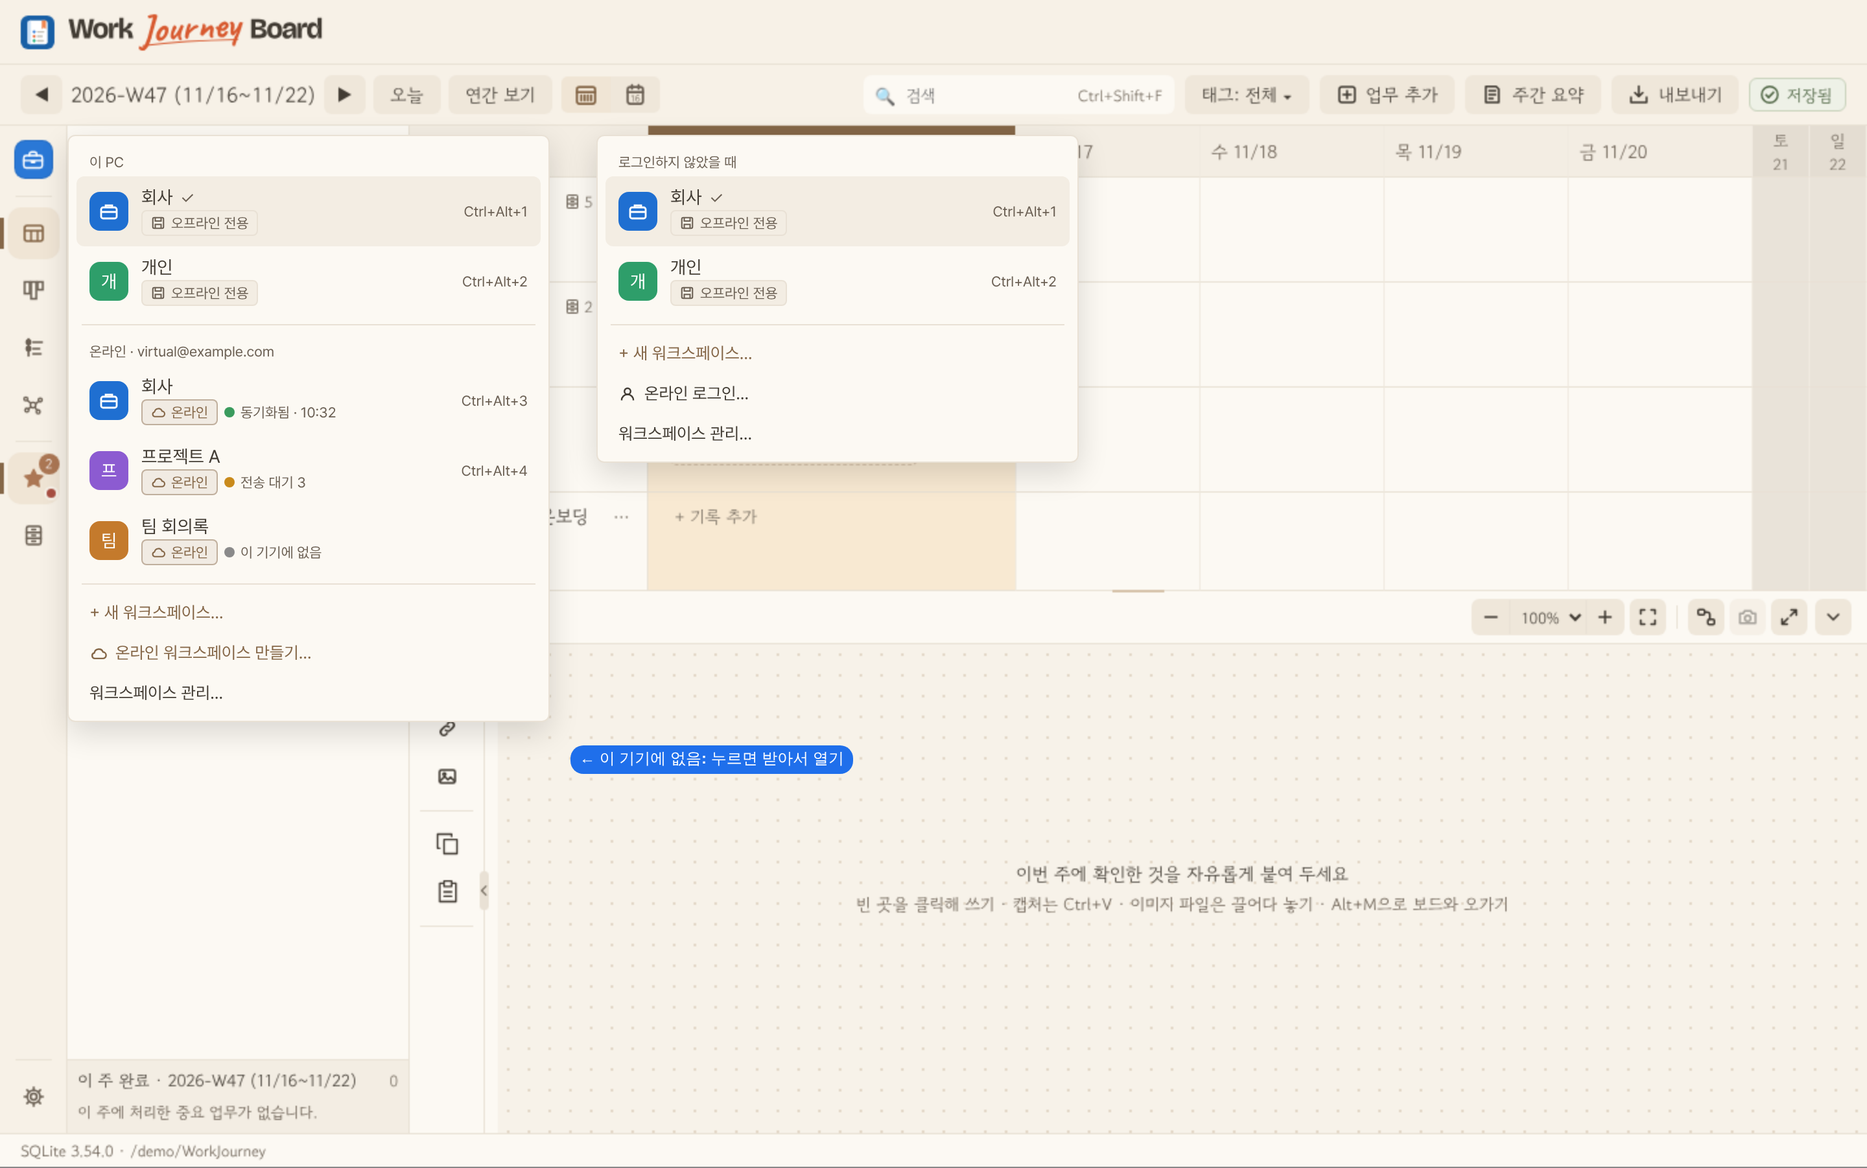
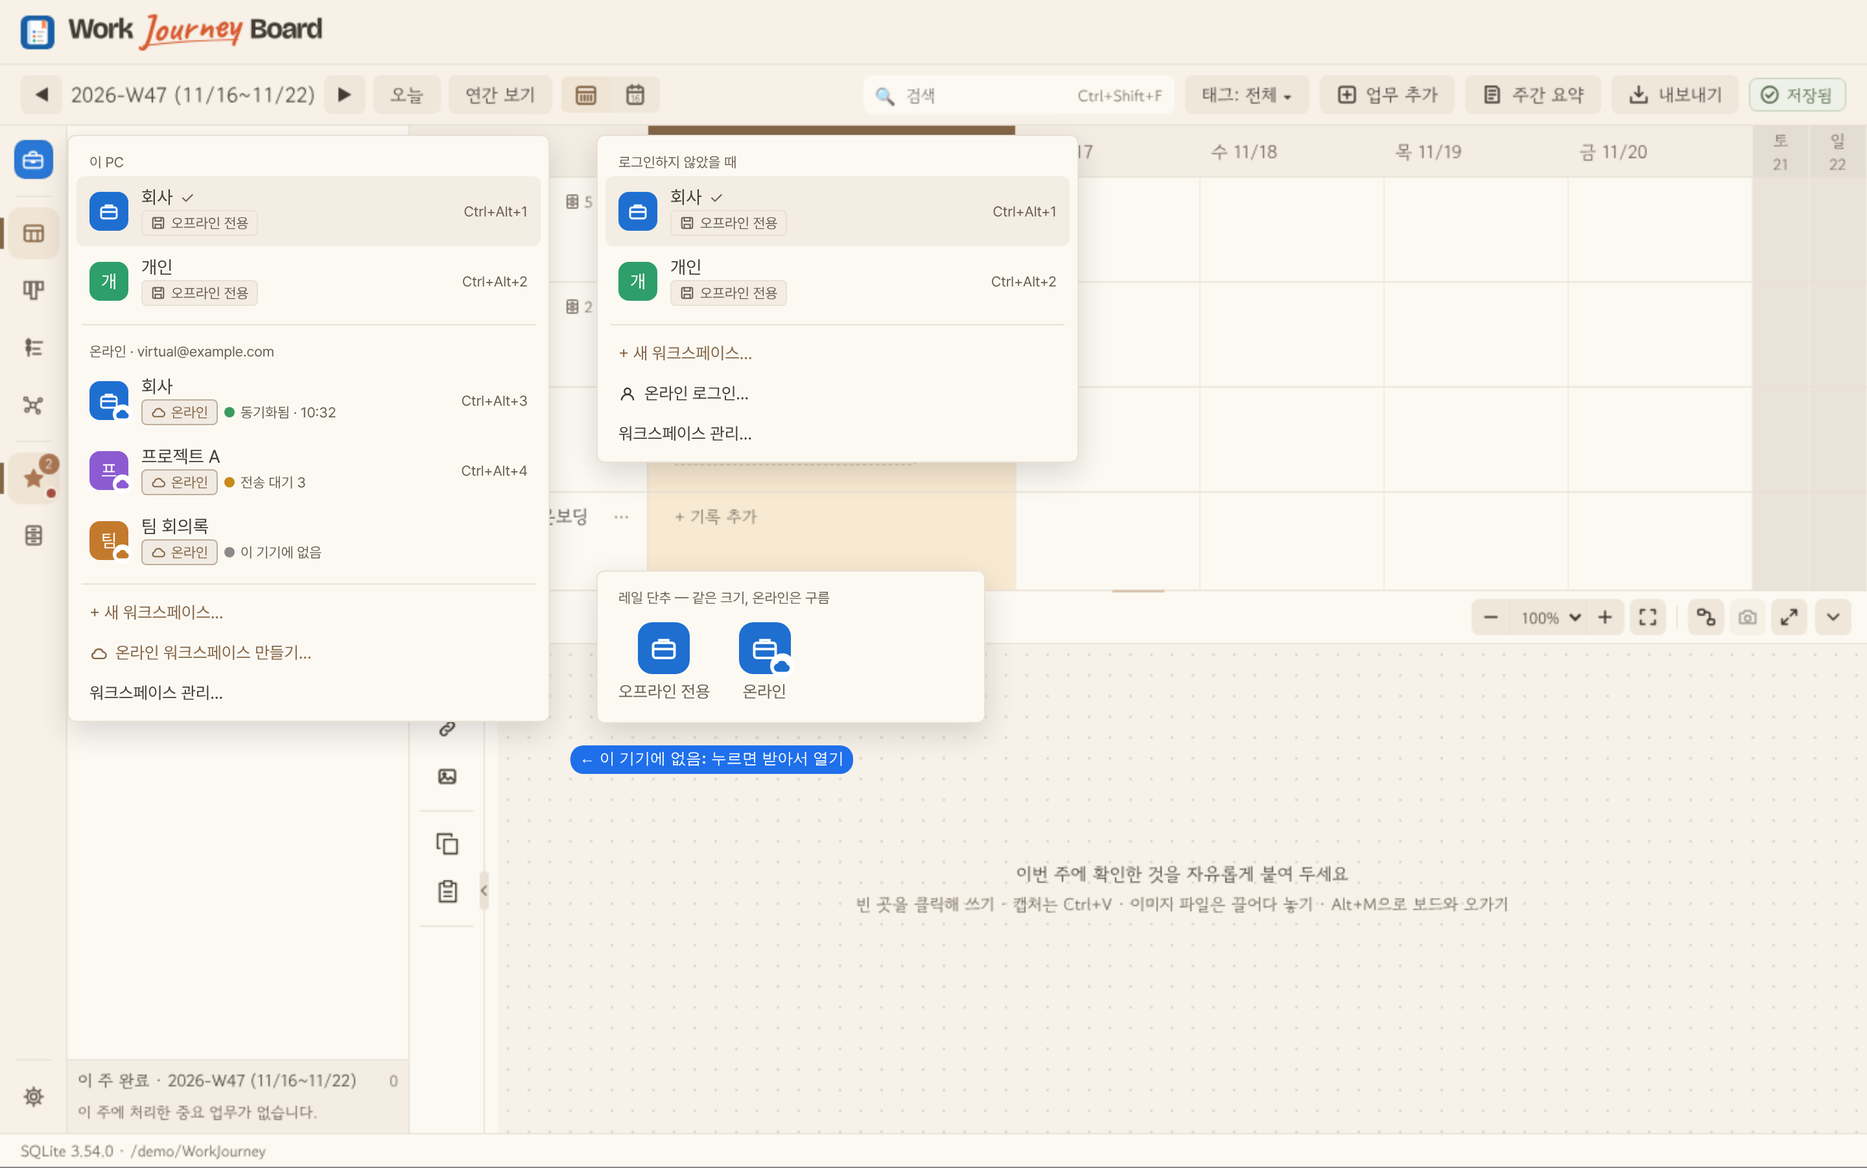
V2 UX-1: 온라인 워크스페이스 구름 표시(U8)·결정 기록(95)
WorkspaceMark online 속성 — 같은 크기 모노그램 오른쪽 아래에 구름, 오프라인 전용은 그대로.
시안 S1(레일 단추 비교)·S3·S5 갱신, U1~U7 추천안 확정·단계 UX-1~5.

Claude-Session: https://claude.ai/code/session_01KDB9RENUB7vBNt3kznSUpC

Changed region(s): [[0.3438, 0.4661, 0.5312, 0.6215]]

diff --git a/docs/v2-design/mockups/ux/index.html b/docs/v2-design/mockups/ux/index.html
@@ -24,6 +24,10 @@
   .btn.danger { color: var(--danger); border-color: transparent; background: none; }
   .btn.warn { color: var(--danger); border-color: var(--danger); }
   .mark { width: 30px; height: 30px; border-radius: 8px; display: inline-flex; align-items: center; justify-content: center; color: #fff; flex: none; }
+  .mark.on { position: relative; }
+  .mark.on .cb { position: absolute; right: -3px; bottom: -3px; width: 15px; height: 15px; border-radius: 50%; background: #fff; display: grid; place-items: center; box-shadow: 0 0 0 1.5px var(--surface), 0 1px 2px rgb(0 0 0 / .25); }
+  .mark.big { width: 40px; height: 40px; border-radius: 11px; }
+  .mark.big.on .cb { width: 19px; height: 19px; }
   .type { display: inline-flex; align-items: center; gap: 4px; height: 20px; padding: 0 6px; border-radius: 4px; font-size: 11px; border: 1px solid var(--line); color: var(--text-2); background: var(--surface-sub); white-space: nowrap; }
   .type.online { color: var(--accent); border-color: color-mix(in srgb, var(--accent) 45%, transparent); background: color-mix(in srgb, var(--accent) 9%, transparent); }
   .dot { width: 8px; height: 8px; border-radius: 50%; display: inline-block; flex: none; }
@@ -100,16 +104,23 @@
       <div><div class="name">개인</div><div class="meta"><span class="type"><svg width="12" height="12"><use href="#disk"/></svg>오프라인 전용</span></div></div><span class="key">Ctrl+Alt+2</span></div>
     <hr />
     <div class="sec"><span>온라인 · virtual@example.com</span></div>
-    <div class="item"><span class="mark" style="background:#1f6fd1"><svg width="16" height="16"><use href="#brief"/></svg></span>
+    <div class="item"><span class="mark on" style="background:#1f6fd1"><svg width="16" height="16"><use href="#brief"/></svg><span class="cb" style="color:#1f6fd1"><svg width="11" height="11" viewBox="0 0 16 16"><path d="M4.6 12.2h7a2.6 2.6 0 0 0 .3-5.2 3.8 3.8 0 0 0-7.3-.8A3 3 0 0 0 4.6 12.2Z" fill="currentColor" stroke="currentColor" stroke-width="1.2" stroke-linejoin="round"/></svg></span></span>
       <div><div class="name">회사</div><div class="meta"><span class="type online"><svg width="12" height="12"><use href="#cloud"/></svg>온라인</span><span class="dot ok"></span>동기화됨 · 10:32</div></div><span class="key">Ctrl+Alt+3</span></div>
-    <div class="item"><span class="mark" style="background:#8c5bd1">프</span>
+    <div class="item"><span class="mark on" style="background:#8c5bd1">프<span class="cb" style="color:#8c5bd1"><svg width="11" height="11" viewBox="0 0 16 16"><path d="M4.6 12.2h7a2.6 2.6 0 0 0 .3-5.2 3.8 3.8 0 0 0-7.3-.8A3 3 0 0 0 4.6 12.2Z" fill="currentColor" stroke="currentColor" stroke-width="1.2" stroke-linejoin="round"/></svg></span></span>
       <div><div class="name">프로젝트 A</div><div class="meta"><span class="type online"><svg width="12" height="12"><use href="#cloud"/></svg>온라인</span><span class="dot wait"></span>전송 대기 3</div></div><span class="key">Ctrl+Alt+4</span></div>
-    <div class="item"><span class="mark" style="background:#c47a2c">팀</span>
+    <div class="item"><span class="mark on" style="background:#c47a2c">팀<span class="cb" style="color:#c47a2c"><svg width="11" height="11" viewBox="0 0 16 16"><path d="M4.6 12.2h7a2.6 2.6 0 0 0 .3-5.2 3.8 3.8 0 0 0-7.3-.8A3 3 0 0 0 4.6 12.2Z" fill="currentColor" stroke="currentColor" stroke-width="1.2" stroke-linejoin="round"/></svg></span></span>
       <div><div class="name">팀 회의록</div><div class="meta"><span class="type online"><svg width="12" height="12"><use href="#cloud"/></svg>온라인</span><span class="dot off"></span>이 기기에 없음</div></div></div>
     <hr />
     <div class="act accent">+ 새 워크스페이스…</div>
     <div class="act accent row" style="gap:6px"><svg width="14" height="14"><use href="#cloud"/></svg>온라인 워크스페이스 만들기…</div>
     <div class="act">워크스페이스 관리…</div>
+  </div>
+  <div class="abs card menu" style="left:460px;top:440px;width:300px">
+    <div class="sec"><span>레일 단추 — 같은 크기, 온라인은 구름</span></div>
+    <div class="row" style="gap:22px;padding:8px 10px 10px">
+      <div style="text-align:center"><span class="mark big" style="background:#1f6fd1"><svg width="22" height="22"><use href="#brief"/></svg></span><div class="small muted" style="margin-top:6px">오프라인 전용</div></div>
+      <div style="text-align:center"><span class="mark big on" style="background:#1f6fd1"><svg width="22" height="22"><use href="#brief"/></svg><span class="cb" style="color:#1f6fd1"><svg width="14" height="14" viewBox="0 0 16 16"><path d="M4.6 12.2h7a2.6 2.6 0 0 0 .3-5.2 3.8 3.8 0 0 0-7.3-.8A3 3 0 0 0 4.6 12.2Z" fill="currentColor" stroke="currentColor" stroke-width="1.2" stroke-linejoin="round"/></svg></span></span><div class="small muted" style="margin-top:6px">온라인</div></div>
+    </div>
   </div>
   <div class="abs card menu" style="left:460px;top:104px">
     <div class="sec"><span>로그인하지 않았을 때</span></div>
@@ -153,7 +164,7 @@
   <div class="abs cover" style="left:1300px;top:58px;width:136px;height:30px"></div>
   <span class="abs pill bad" style="right:16px;top:59px"><svg width="14" height="14"><use href="#warn"/></svg>충돌 1</span>
   <div class="abs card" style="right:16px;top:96px;width:340px;padding:16px">
-    <div class="row"><span class="mark" style="background:#1f6fd1;width:26px;height:26px"><svg width="14" height="14"><use href="#brief"/></svg></span>
+    <div class="row"><span class="mark on" style="background:#1f6fd1;width:26px;height:26px"><svg width="14" height="14"><use href="#brief"/></svg><span class="cb" style="color:#1f6fd1"><svg width="11" height="11" viewBox="0 0 16 16"><path d="M4.6 12.2h7a2.6 2.6 0 0 0 .3-5.2 3.8 3.8 0 0 0-7.3-.8A3 3 0 0 0 4.6 12.2Z" fill="currentColor" stroke="currentColor" stroke-width="1.2" stroke-linejoin="round"/></svg></span></span>
       <div><div class="b">회사</div><div class="small muted row" style="gap:5px"><span class="type online"><svg width="12" height="12"><use href="#cloud"/></svg>온라인</span>virtual@example.com</div></div></div>
     <div class="kv" style="margin-top:14px">
       <span class="muted">이 기기</span><span class="row" style="gap:6px"><span class="dot ok"></span>저장됨</span>
@@ -207,16 +218,16 @@
     <h1>워크스페이스</h1>
     <div class="scard">
       <h2>공간 목록</h2>
-      <div class="srow"><span class="mark" style="background:#1f6fd1"><svg width="16" height="16"><use href="#brief"/></svg></span>
+      <div class="srow"><span class="mark on" style="background:#1f6fd1"><svg width="16" height="16"><use href="#brief"/></svg><span class="cb" style="color:#1f6fd1"><svg width="11" height="11" viewBox="0 0 16 16"><path d="M4.6 12.2h7a2.6 2.6 0 0 0 .3-5.2 3.8 3.8 0 0 0-7.3-.8A3 3 0 0 0 4.6 12.2Z" fill="currentColor" stroke="currentColor" stroke-width="1.2" stroke-linejoin="round"/></svg></span></span>
         <div style="flex:1"><div class="row" style="gap:6px"><span class="b">회사</span><span class="type"><svg width="12" height="12"><use href="#disk"/></svg>오프라인 전용</span><span class="type online" style="border:0">지금 연 공간</span></div><div class="small muted">/demo/WorkJourney</div></div>
         <span class="btn">이름·색·아이콘</span><span class="btn">폴더 열기</span><span class="btn">온라인으로 복제…</span></div>
-      <div class="srow"><span class="mark" style="background:#1f6fd1"><svg width="16" height="16"><use href="#brief"/></svg></span>
+      <div class="srow"><span class="mark on" style="background:#1f6fd1"><svg width="16" height="16"><use href="#brief"/></svg><span class="cb" style="color:#1f6fd1"><svg width="11" height="11" viewBox="0 0 16 16"><path d="M4.6 12.2h7a2.6 2.6 0 0 0 .3-5.2 3.8 3.8 0 0 0-7.3-.8A3 3 0 0 0 4.6 12.2Z" fill="currentColor" stroke="currentColor" stroke-width="1.2" stroke-linejoin="round"/></svg></span></span>
         <div style="flex:1"><div class="row" style="gap:6px"><span class="b">회사</span><span class="type online"><svg width="12" height="12"><use href="#cloud"/></svg>온라인</span></div><div class="small muted row" style="gap:5px"><span class="dot ok"></span>동기화됨 · 10:32 · 2026-11-15 복제</div></div>
         <span class="btn">이름·색·아이콘</span><span class="btn danger">이 기기에서 지우기…</span></div>
-      <div class="srow"><span class="mark" style="background:#8c5bd1">프</span>
+      <div class="srow"><span class="mark on" style="background:#8c5bd1">프<span class="cb" style="color:#8c5bd1"><svg width="11" height="11" viewBox="0 0 16 16"><path d="M4.6 12.2h7a2.6 2.6 0 0 0 .3-5.2 3.8 3.8 0 0 0-7.3-.8A3 3 0 0 0 4.6 12.2Z" fill="currentColor" stroke="currentColor" stroke-width="1.2" stroke-linejoin="round"/></svg></span></span>
         <div style="flex:1"><div class="row" style="gap:6px"><span class="b">프로젝트 A</span><span class="type online"><svg width="12" height="12"><use href="#cloud"/></svg>온라인</span></div><div class="small muted row" style="gap:5px"><span class="dot wait"></span>전송 대기 3</div></div>
         <span class="btn">이름·색·아이콘</span><span class="btn danger">이 기기에서 지우기…</span></div>
-      <div class="srow"><span class="mark" style="background:#c47a2c">팀</span>
+      <div class="srow"><span class="mark on" style="background:#c47a2c">팀<span class="cb" style="color:#c47a2c"><svg width="11" height="11" viewBox="0 0 16 16"><path d="M4.6 12.2h7a2.6 2.6 0 0 0 .3-5.2 3.8 3.8 0 0 0-7.3-.8A3 3 0 0 0 4.6 12.2Z" fill="currentColor" stroke="currentColor" stroke-width="1.2" stroke-linejoin="round"/></svg></span></span>
         <div style="flex:1"><div class="row" style="gap:6px"><span class="b">팀 회의록</span><span class="type online"><svg width="12" height="12"><use href="#cloud"/></svg>온라인</span></div><div class="small muted row" style="gap:5px"><span class="dot off"></span>이 기기에 없음</div></div>
         <span class="btn">이 기기에 받기</span></div>
       <div class="srow" style="gap:8px"><span class="btn primary">+ 새 워크스페이스…</span><span class="btn"><svg width="14" height="14"><use href="#cloud"/></svg>온라인 워크스페이스 만들기…</span><span class="btn">기존 폴더를 워크스페이스로 추가…</span></div>

diff --git a/src/ui/common/workspaceIcons.tsx b/src/ui/common/workspaceIcons.tsx
@@ -4,6 +4,7 @@
 import type { ReactNode } from "react";
 import type { WorkspaceIcon } from "../../domain/workspace";
 import type { CategoryColorKey } from "../../shared/palette";
+import { STR } from "../../shared/strings";
 import styles from "./WorkspaceMark.module.css";
 
 /** 💼 📁 📅 📋 📝 ✏ 📓 📚 💡 📈 📊 📌 📎 💻 ✉ 📦 🏷 🔒 🔑 🔧 🔍 ⏰ ⌛ 🗂 ✂ 📐 💰 💳 */
@@ -201,12 +202,16 @@ export function WorkspaceMark({
   color,
   size = 28,
   title,
+  online = false,
 }: {
   icon: WorkspaceIcon;
   color: CategoryColorKey;
   size?: number;
   title?: string;
+  /** 온라인 워크스페이스: 같은 크기 모노그램 오른쪽 아래에 구름 표시(docs/v2-design/95 U8) */
+  online?: boolean;
 }) {
+  const badge = Math.max(10, Math.round(size * 0.48));
   return (
     <span
       className={styles.mark}
@@ -216,8 +221,32 @@ export function WorkspaceMark({
       role={title ? "img" : undefined}
       aria-hidden={title ? undefined : true}
       data-icon={icon}
+      data-online={online ? "" : undefined}
     >
       <WorkspaceGlyph icon={icon} size={Math.round(size * 0.62)} />
+      {online && (
+        <span
+          className={styles.cloud}
+          style={{ width: badge, height: badge, color: `var(--cat-${color})` }}
+          data-testid="workspace-cloud"
+          title={title ? undefined : STR.workspace.onlineMark}
+        >
+          <svg
+            viewBox="0 0 16 16"
+            width={Math.round(badge * 0.78)}
+            height={Math.round(badge * 0.78)}
+            aria-hidden
+          >
+            <path
+              d="M4.6 12.2h7a2.6 2.6 0 0 0 .3-5.2 3.8 3.8 0 0 0-7.3-.8A3 3 0 0 0 4.6 12.2Z"
+              fill="currentColor"
+              stroke="currentColor"
+              strokeWidth="1.2"
+              strokeLinejoin="round"
+            />
+          </svg>
+        </span>
+      )}
     </span>
   );
 }

diff --git a/tests/unit/workspaceMark.test.tsx b/tests/unit/workspaceMark.test.tsx
@@ -1,0 +1,24 @@
+// 온라인 워크스페이스 구름 표시(docs/v2-design/95 U8): 같은 크기 모노그램 + 구름, 오프라인 전용은 지금 그대로
+import { render } from "@testing-library/react";
+import { describe, expect, it } from "vitest";
+import { WorkspaceMark } from "../../src/ui/common/workspaceIcons";
+
+describe("WorkspaceMark 구름 표시", () => {
+  it("오프라인 전용 공간은 구름이 없다(정식판 그대로)", () => {
+    const { container } = render(<WorkspaceMark icon="briefcase" color="c1" size={30} />);
+    const mark = container.firstElementChild as HTMLElement;
+    expect(mark.hasAttribute("data-online")).toBe(false);
+    expect(container.querySelector("[data-testid=workspace-cloud]")).toBeNull();
+  });
+
+  it("온라인 공간은 같은 크기에 구름 표시를 겹친다", () => {
+    const { container } = render(<WorkspaceMark icon="briefcase" color="c1" size={30} online />);
+    const mark = container.firstElementChild as HTMLElement;
+    expect(mark.style.width).toBe("30px");
+    expect(mark.style.height).toBe("30px");
+    expect(mark.hasAttribute("data-online")).toBe(true);
+    const cloud = container.querySelector<HTMLElement>("[data-testid=workspace-cloud]");
+    expect(cloud).not.toBeNull();
+    expect(cloud!.title).toBe("온라인 워크스페이스");
+  });
+});

diff --git a/src/ui/common/WorkspaceMark.module.css b/src/ui/common/WorkspaceMark.module.css
@@ -7,3 +7,23 @@
   color: #fff;
   box-shadow: inset 0 0 0 1px rgb(0 0 0 / 0.08);
 }
+
+/* 온라인 워크스페이스 구름 표시(docs/v2-design/95 U8): 모노그램 크기는 그대로, 오른쪽 아래 모서리에 겹친다.
+   흰 원 + 공간 색 구름 — 색만으로 가르지 않도록 모양(구름)으로 구분, 화면 글자는 툴팁·aria */
+.mark {
+  position: relative;
+}
+
+.cloud {
+  position: absolute;
+  right: -3px;
+  bottom: -3px;
+  display: grid;
+  place-items: center;
+  border-radius: 50%;
+  background: #fff;
+  box-shadow:
+    0 0 0 1.5px var(--surface, #fff),
+    0 1px 2px rgb(0 0 0 / 0.25);
+  pointer-events: none;
+}

diff --git a/src/shared/strings.ts b/src/shared/strings.ts
@@ -2310,6 +2310,7 @@ export const STR_BASE = {
   },
   workspace: {
     word: "워크스페이스",
+    onlineMark: "온라인 워크스페이스",
     rail: (name: string) => `워크스페이스: ${name} — 눌러서 전환 (Ctrl+Alt+0)`,
     menuLabel: "워크스페이스",
     current: "지금 연 공간",

diff --git a/docs/v2-design/95-online-ux-integration.md b/docs/v2-design/95-online-ux-integration.md
@@ -1,4 +1,4 @@
-# 95. 온라인 UX 통합 — 시안(결정 대기)
+# 95. 온라인 UX 통합 — 시안·결정(2026-11-16 승인)
 
 2026-11-16 · `v2-design` · 로드맵(사용자 결정): E 실기 마무리 → E+ → 1.40.1 → **온라인 UX 통합** → G 운영 준비 → F 다국어(보류)
 
@@ -23,7 +23,7 @@
 
 | # | 화면 | 핵심 |
 |---|---|---|
-| S1 | [레일 공간 메뉴](mockups/ux/s1.png) | **이 PC**(오프라인 전용)와 **온라인 · 계정 이메일** 묶음을 한 목록에. 항목마다 유형 배지(디스크 / 구름) + 온라인은 상태 점(동기화됨·전송 대기·이 기기에 없음). [+ 새 워크스페이스] [온라인 워크스페이스 만들기…] [워크스페이스 관리…]. 로그인 전이면 온라인 묶음 대신 [온라인 로그인…]. `Ctrl+Alt+숫자`는 두 묶음을 이어서 |
+| S1 | [레일 공간 메뉴](mockups/ux/s1.png) | **이 PC**(오프라인 전용)와 **온라인 · 계정 이메일** 묶음을 한 목록에. 온라인 공간은 **모노그램 오른쪽 아래 구름 표시**(U8, 레일 단추도 같음). 항목마다 유형 배지(디스크 / 구름) + 온라인은 상태 점(동기화됨·전송 대기·이 기기에 없음). [+ 새 워크스페이스] [온라인 워크스페이스 만들기…] [워크스페이스 관리…]. 로그인 전이면 온라인 묶음 대신 [온라인 로그인…]. `Ctrl+Alt+숫자`는 두 묶음을 이어서 |
 | S2 | [상단 상태](mockups/ux/s2.png) | 기존 "저장됨" 알약 자리에 온라인 상태: 동기화됨 · 시각 / 동기화 중… / 저장됨 · 대기 N / 연결 끊김 · 대기 N / 충돌 N / 다시 로그인. **오프라인 전용 공간은 지금 그대로**("저장됨") |
 | S3 | [동기화 패널](mockups/ux/s3.png) | 알약을 누르면: 공간·유형·계정, **이 기기**(저장됨) / **서버**(동기화됨·시각) 따로, 보낼 변경 N, 충돌 N → [충돌 보기] [지금 동기화] |
 | S4 | [설정 › 계정](mockups/ux/s4.png) | 새 분류 **계정**: 로그인 전 = 이메일 → [인증번호 받기], 초대 전용 안내 / 로그인 후 = 이메일·서버 확인·온라인 공간 수·이 기기·[다시 확인]·[로그아웃…] |
@@ -34,7 +34,7 @@
 
 공통: 둥근 띠 없음(유형 배지는 일반 배지), 색만으로 구분하지 않음(아이콘 + 글), 부연 설명 레이블 대신 툴팁·가이드. 시그니처·라이트·다크 같은 토큰(시안은 시그니처로 그림).
 
-## 2. 결정이 필요한 것
+## 2. 결정(2026-11-16 사용자: "추천안대로 진행" + U8 추가)
 
 | | 질문 | 추천 | 대안 |
 |---|---|---|---|
@@ -45,8 +45,20 @@
 | **U5** | 충돌 화면 | **설정과 같은 전체 화면**(S7) | 지금처럼 떠 있는 목록 |
 | **U6** | 로그아웃·계정 전환 때 열린 온라인 공간 | **보낼 변경을 보내고 저장 후 닫고 오프라인 전용 공간으로**(S8, 보내지 못하면 이 기기 사본에 그대로 남아 다음 로그인 때 이어서) | 로그아웃해도 열린 채로 읽기 전용 |
 | **U7** | 정식판에서 온라인을 보이는 방식 | **이 단계는 Preview 프로필에서만 보이게 구현**, 정식판 노출(하나의 앱에 선택 기능 / 별도 앱)은 G단계에서 결정 | 지금 결정 |
+| **U8** | 워크스페이스 아이콘 구분(사용자 추가 요구) | **같은 규격 모노그램 + 오른쪽 아래 구름 표시**(흰 원 안 공간 색 구름) — 레일 단추·공간 메뉴·설정·패널 어디서나. 오프라인 전용은 지금 그대로 | — |
 
-## 3. 구현 범위(추천안 기준, 결정 후)
+U1~U7은 추천안으로 확정. U8 구현: `WorkspaceMark`의 `online` 속성(`src/ui/common/workspaceIcons.tsx`, 시험 `tests/unit/workspaceMark.test.tsx`) — 크기는 바뀌지 않고, 구름은 모양으로 구분(색만으로 가르지 않음), 이름은 툴팁·`aria`("온라인 워크스페이스").
+
+## 3. 구현 범위·단계
+
+| 단계 | 내용 |
+|---|---|
+| UX-1 | 구름 표시(U8)·결정 기록·시안 갱신 |
+| UX-2 | 서버 목록에 공간 이름·색·아이콘(SQL 025, 동기화 값 우선) |
+| UX-3 | 레일 공간 메뉴·상단 알약·동기화 패널, 위 띠 제거, 계정 바뀌면 목록 즉시 |
+| UX-4 | 설정 › 계정·로그아웃 흐름(U6)·충돌 전체 화면(U5) |
+| UX-5 | Preview 시작 화면 정리·만들기 4단계(U4) |
+
 
 1. 화면 저장소: 공간 목록에 유형·상태(온라인 항목 = 서버 목록 + 이 기기 캐시), 계정 바뀌면 즉시 다시 읽기.
 2. 레일 공간 메뉴·상단 알약·동기화 패널·설정 › 계정·설정 › 워크스페이스·만들기 대화상자·충돌 화면 — **Preview 프로필에서만**(정식판·DEV는 지금 그대로, `appProfile` 시험으로 고정).
